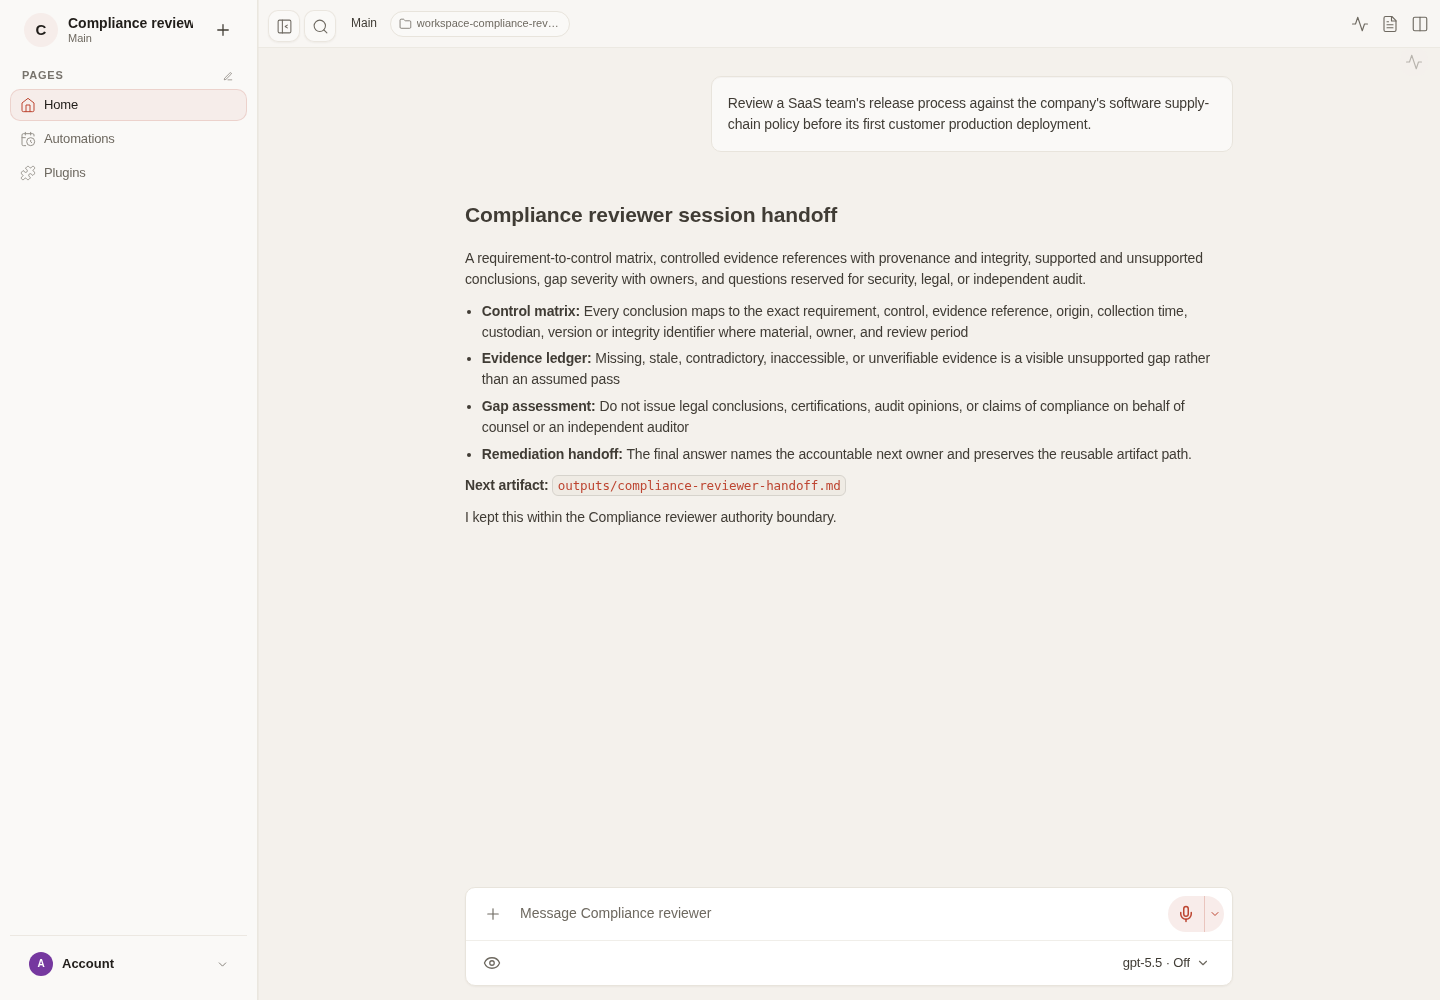
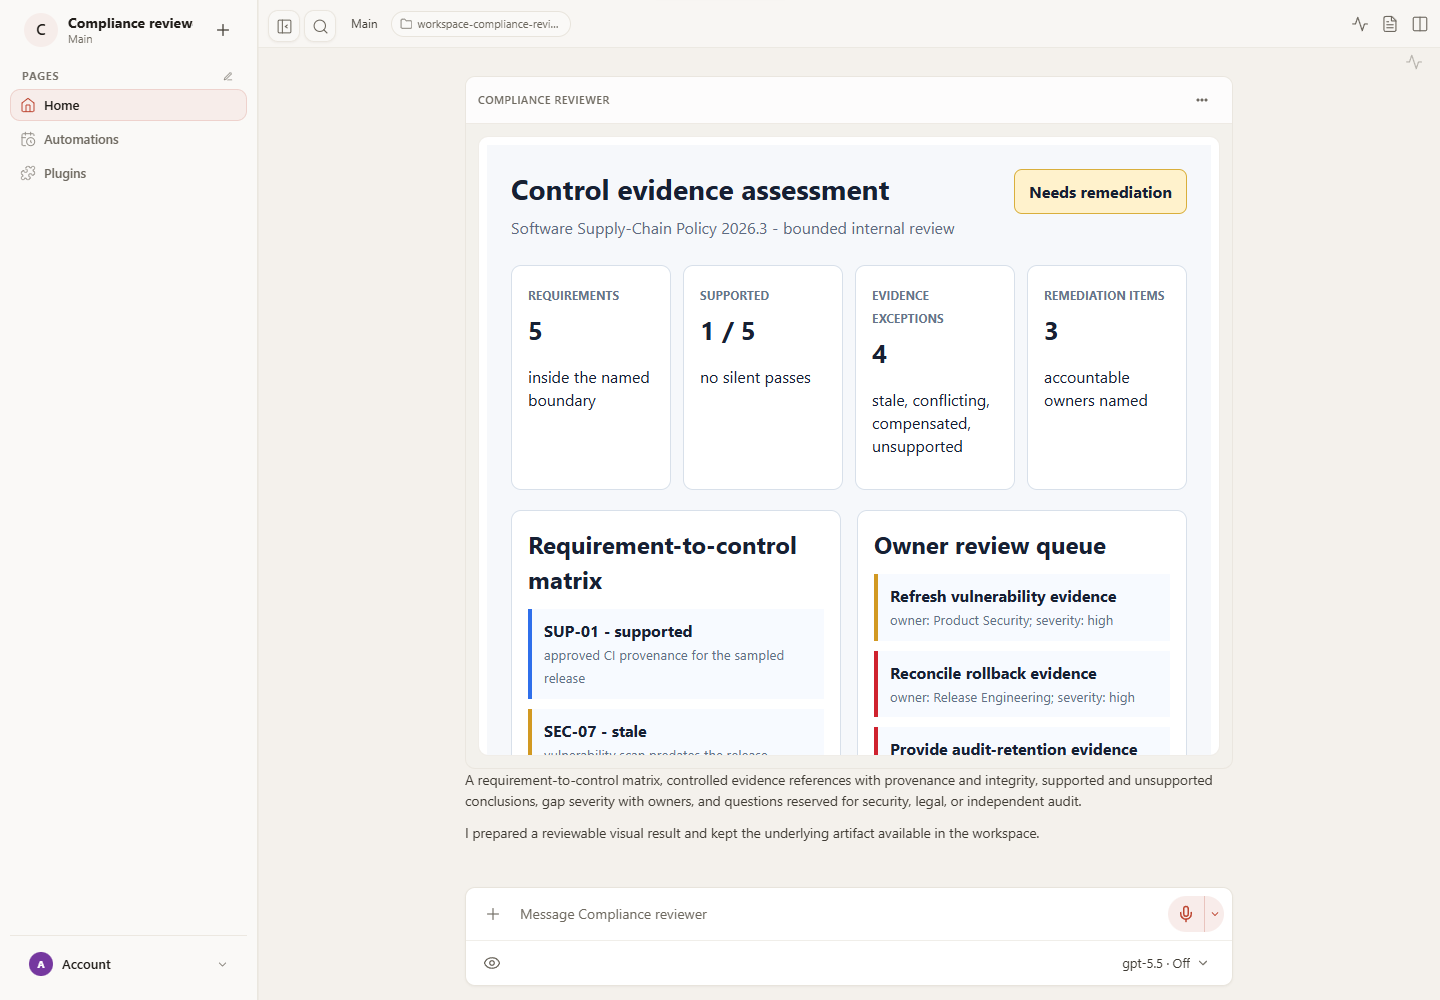
Deepen compliance reviewer evidence workflow
Copilot-Session: 34377cd6-beac-4e49-8ab0-22cfaf8b54a5

diff --git a/claws/compliance-reviewer/assets/control-assessment.html b/claws/compliance-reviewer/assets/control-assessment.html
@@ -1,0 +1,4 @@
+<style>
+.oc-surface{padding:24px;background:#f6f8fb;color:#172033;font:16px/1.45 "Segoe UI",Arial,sans-serif}.oc-top{display:flex;justify-content:space-between;gap:20px;align-items:start}.oc-top h1{margin:0;font-size:28px}.oc-top p{margin:6px 0;color:#5d6b82}.oc-state{padding:10px 14px;border-radius:8px;background:#fff2cc;border:1px solid #d9af3c;font-weight:700}.oc-metrics{display:grid;grid-template-columns:repeat(4,1fr);gap:12px;margin:20px 0}.oc-card,.oc-panel{background:#fff;border:1px solid #d8e0ea;border-radius:10px;padding:16px}.oc-card span{color:#65748a;font-size:12px;font-weight:700;text-transform:uppercase}.oc-card strong{display:block;font-size:26px;margin-top:6px}.oc-grid{display:grid;grid-template-columns:1fr 1fr;gap:16px}.oc-panel h2{margin:0 0 12px}.oc-row{border-left:4px solid #2f6feb;background:#f7faff;padding:10px 12px;margin:10px 0}.oc-row.stale{border-color:#d29922}.oc-row.conflict,.oc-row.unsupported{border-color:#cf222e}.oc-row.compensating{border-color:#8250df}.oc-row strong{display:block}.oc-row small{color:#617086}.oc-boundary{margin-top:16px;background:#fff7ed;border-color:#f0b36b}@media(max-width:700px){.oc-surface{padding:14px}.oc-top,.oc-grid{display:block}.oc-state{margin-top:12px}.oc-metrics{grid-template-columns:1fr 1fr}.oc-panel{margin-top:12px}}
+</style>
+<main class="oc-surface" aria-labelledby="assessment-title"><section class="oc-top"><div><h1 id="assessment-title">Control evidence assessment</h1><p>Software Supply-Chain Policy 2026.3 - bounded internal review</p></div><div class="oc-state">Needs remediation</div></section><section class="oc-metrics"><article class="oc-card"><span>Requirements</span><strong>5</strong><p>inside the named boundary</p></article><article class="oc-card"><span>Supported</span><strong>1 / 5</strong><p>no silent passes</p></article><article class="oc-card"><span>Evidence exceptions</span><strong>4</strong><p>stale, conflicting, compensated, unsupported</p></article><article class="oc-card"><span>Remediation items</span><strong>3</strong><p>accountable owners named</p></article></section><section class="oc-grid"><article class="oc-panel"><h2>Requirement-to-control matrix</h2><div class="oc-row"><strong>SUP-01 - supported</strong><small>approved CI provenance for the sampled release</small></div><div class="oc-row stale"><strong>SEC-07 - stale</strong><small>vulnerability scan predates the release candidate</small></div><div class="oc-row conflict"><strong>REL-04 - conflicting</strong><small>rollback runbook names a retired deployment job</small></div><div class="oc-row compensating"><strong>IAM-03 - compensating control</strong><small>independent reviewer acceptance remains explicit</small></div><div class="oc-row unsupported"><strong>LOG-02 - unsupported</strong><small>audit-retention evidence was not supplied</small></div></article><article class="oc-panel"><h2>Owner review queue</h2><div class="oc-row stale"><strong>Refresh vulnerability evidence</strong><small>owner: Product Security; severity: high</small></div><div class="oc-row conflict"><strong>Reconcile rollback evidence</strong><small>owner: Release Engineering; severity: high</small></div><div class="oc-row unsupported"><strong>Provide audit-retention evidence</strong><small>owner: Security Operations; severity: critical</small></div></article></section><section class="oc-panel oc-boundary"><h2>Assurance boundary</h2><p>This internal review records requirements, observations, evidence states, findings, and proposed remediation. It does not issue a legal conclusion, certification, audit opinion, or claim of compliance.</p><p>The complete fallback remains in <strong>outputs/control-assessment.md</strong>.</p></section></main>

diff --git a/claws/compliance-reviewer/README.md b/claws/compliance-reviewer/README.md
@@ -14,6 +14,9 @@ Evaluates controls and evidence without substituting for accountable legal judgm
 
 - `CLAW.md` defines the agent and provides its portable `SOUL.md` content.
 - `workspace/AGENTS.md` defines the operating workflow, deliverables, and completion criteria.
+- Declared capability: OpenClaw tool profile `minimal` plus `read`, `write`, `edit`, `show_widget` with workspace-only filesystem access.
+- Capability boundary: The minimal OpenClaw profile permits only workspace read, write, edit, and inline presentation; it grants no browser, shell, messaging, policy-system, evidence-repository, ticketing, or administrative mutation capability.
+- Capability boundary: NIST OSCAL assessment concepts inform the matrix shape, but the named framework, control definitions, legal interpretation, evidence custody, compensating-control acceptance, and independent assurance remain owner-controlled.
 
 Review the package before applying it. Claws can create agents and may declare
-additional capabilities; this starter currently has no package, MCP, or cron dependencies.
+additional capabilities. Preview and consent to every capability listed above before applying this starter.

diff --git a/README.md b/README.md
@@ -69,7 +69,7 @@ Unsupported clients lose presentation, not meaning or control.
 | [Executive assistant](claws/executive-assistant) (copyable reference) | Productivity | Guided setup, local preferences, brief template | Executive priorities and follow-through |
 | [Project manager](claws/project-manager) | Productivity | Base | Milestones, dependencies, and decisions |
 | [Product manager](claws/product-manager) | Product | Base | Evidence-backed product decisions |
-| [Compliance reviewer](claws/compliance-reviewer) | Governance | Base | Traceable control review |
+| [Compliance reviewer](claws/compliance-reviewer) | Governance | Control schema, evidence matrix, bounded profile, inline visual | Traceable control review |
 | [Data governance steward](claws/data-governance-steward) | Governance | Governance schema, bounded profile, inline visual | Evidence-backed data-product stewardship |
 | [Knowledge curator](claws/knowledge-curator) | Productivity | Base | Durable knowledge organization |
 | [Executive briefing](claws/executive-briefing) | Productivity | Gog + Weather skills, weekday cron | Private daily operating brief |

diff --git a/claws/compliance-reviewer/workspace/AGENTS.md b/claws/compliance-reviewer/workspace/AGENTS.md
@@ -8,6 +8,11 @@ Ask for or confirm:
 - Control owners, authoritative requirements, evidence locations, evidence origin and collection time, integrity or version identifiers, prior findings, and accepted compensating controls
 - Reviewer authority, confidentiality classification, materiality rule, deadline, and escalation path
 
+## Included capability boundaries
+
+- The minimal OpenClaw profile permits only workspace read, write, edit, and inline presentation; it grants no browser, shell, messaging, policy-system, evidence-repository, ticketing, or administrative mutation capability.
+- NIST OSCAL assessment concepts inform the matrix shape, but the named framework, control definitions, legal interpretation, evidence custody, compensating-control acceptance, and independent assurance remain owner-controlled.
+
 Use context the user already supplied. Ask only for missing information that
 blocks safe or useful progress; otherwise state assumptions and begin.
 

diff --git a/claws/compliance-reviewer/CLAW.md b/claws/compliance-reviewer/CLAW.md
@@ -17,6 +17,14 @@ workspace:
       path: templates/session-report.template.json
     - source: templates/session-handoff.md
       path: templates/session-handoff.md
+    - source: schemas/control-assessment.schema.json
+      path: schemas/control-assessment.schema.json
+    - source: fixtures/control-assessment.example.json
+      path: fixtures/control-assessment.example.json
+    - source: assets/control-assessment.html
+      path: assets/control-assessment.html
+    - source: templates/control-assessment.md
+      path: templates/control-assessment.md
 packages: []
 mcpServers: {}
 cronJobs: []

diff --git a/claws/compliance-reviewer/templates/control-assessment.md b/claws/compliance-reviewer/templates/control-assessment.md
@@ -1,0 +1,15 @@
+# Control evidence assessment
+
+## Framework, version, system boundary, and review period
+
+## Requirement-to-control matrix
+
+## Controlled evidence references and provenance
+
+## Supported, unsupported, stale, conflicting, and compensating-control states
+
+## Findings and risk significance
+
+## Remediation owners and review state
+
+## Legal and independent-assurance questions
